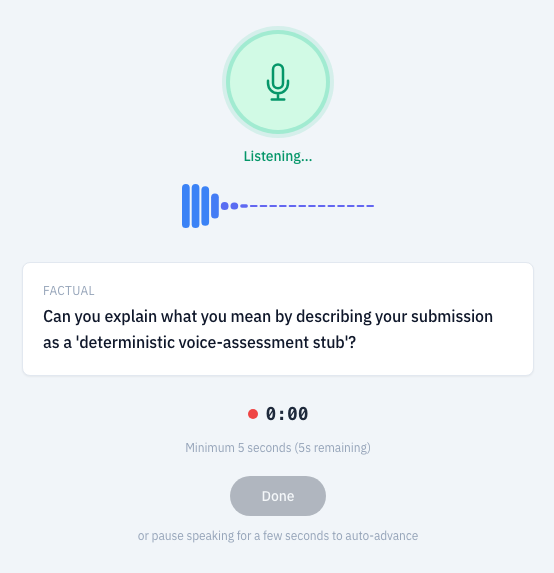
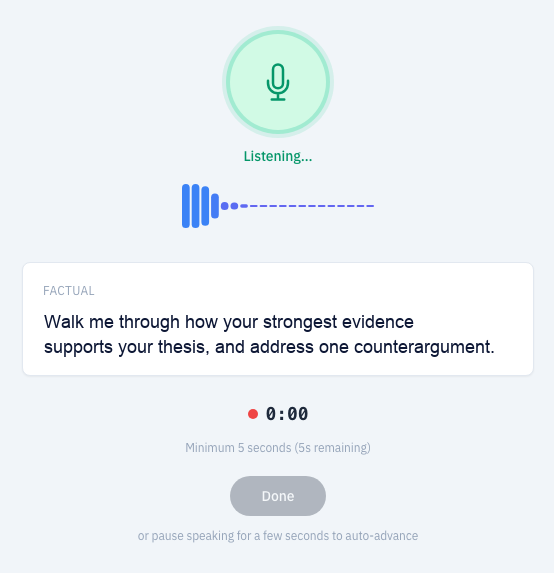
homepage update for defense product

Changed region(s): [[0.0614, 0.534, 0.8899, 0.623]]

diff --git a/index.html b/index.html
@@ -4,11 +4,11 @@
 <meta charset="utf-8" />
 <meta name="viewport" content="width=device-width,initial-scale=1" />
 <title>Retensiq</title>
-<meta name="description" content="Retensiq helps teachers verify understanding with short retention assessments grounded in each student submission." />
+<meta name="description" content="Retensiq is the Retention Validation platform with Validate, Defend, and District Insights for teacher confidence and district oversight." />
 <meta property="og:type" content="website" />
 <meta property="og:site_name" content="Retensiq" />
 <meta property="og:title" content="Retensiq" />
-<meta property="og:description" content="Retensiq helps teachers verify understanding with short retention assessments grounded in each student submission." />
+<meta property="og:description" content="Retensiq is the Retention Validation platform with Validate, Defend, and District Insights for teacher confidence and district oversight." />
 <meta property="og:url" content="https://retensiq.com/" />
 <meta property="og:image" content="https://retensiq.com/images/hero.png" />
 <meta property="og:image:secure_url" content="https://retensiq.com/images/hero.png" />
@@ -17,7 +17,7 @@
 <meta property="og:image:height" content="866" />
 <meta name="twitter:card" content="summary_large_image" />
 <meta name="twitter:title" content="Retensiq" />
-<meta name="twitter:description" content="Retensiq helps teachers verify understanding with short retention assessments grounded in each student submission." />
+<meta name="twitter:description" content="Retensiq is the Retention Validation platform with Validate, Defend, and District Insights for teacher confidence and district oversight." />
 <meta name="twitter:image" content="https://retensiq.com/images/hero.png" />
 <link rel="canonical" href="https://retensiq.com/" />
 <link rel="icon" type="image/png" sizes="32x32" href="/favicon-32x32.png?v=2" />
@@ -67,7 +67,9 @@ html { scroll-behavior: smooth; }
     </div>
     <div class="flex items-center gap-3 md:gap-5">
       <nav class="hidden md:flex items-center gap-5 text-sm text-white/70">
-        <a href="#how" class="hover:text-white">How it works</a>
+        <a href="#capabilities" class="hover:text-white">Platform</a>
+        <a href="#how" class="hover:text-white">How Validate works</a>
+        <a href="#district-insights" class="hover:text-white">For districts</a>
         <a href="#compliance" class="hover:text-white">Compliance + LMS</a>
         <a href="#faq" class="hover:text-white">FAQ</a>
       </nav>
@@ -83,7 +85,9 @@ html { scroll-behavior: smooth; }
   </div>
   <div id="mobile-menu" class="hidden border-t border-white/10 md:hidden">
     <nav class="max-w-6xl mx-auto px-4 py-4 flex flex-col gap-3 text-sm text-white/80">
-      <a href="#how" class="hover:text-white">How it works</a>
+      <a href="#capabilities" class="hover:text-white">Platform</a>
+      <a href="#how" class="hover:text-white">How Validate works</a>
+      <a href="#district-insights" class="hover:text-white">For districts</a>
       <a href="#compliance" class="hover:text-white">Compliance + LMS</a>
       <a href="#faq" class="hover:text-white">FAQ</a>
       <a href="https://app.retensiq.com/request-invite"
@@ -102,21 +106,34 @@ html { scroll-behavior: smooth; }
   <div class="relative max-w-6xl mx-auto px-4">
     <div class="grid gap-10 lg:grid-cols-2 lg:items-center">
       <div>
-
         <h1 class="mt-5 text-4xl md:text-5xl font-semibold leading-tight">
-Beyond AI detection. 
-          <span class="text-white/70">Measure actual student comprehension. </span>
+          Beyond AI detection.
+          <span class="text-white/70">Measure actual student comprehension.</span>
         </h1>
         <p class="mt-6 text-lg text-white/70 leading-relaxed">
-          Detection tools often return an AI-likelihood score instead of a constructive next step. Retensiq flips that model: students demonstrate understanding of their own submission, and you get follow-up evidence you can act on.
+          Students can now submit polished work they did not fully learn. Retensiq gives teachers a simple, practical way to check real understanding and decide what follow-up is actually needed.
         </p>
 
         <ul class="mt-6 space-y-3 text-sm text-white/75">
-          <li class="flex items-start gap-3"><span class="mt-1 h-2 w-2 rounded-full bg-emerald-400"></span>From "likely AI" guesswork to grounded student explanations</li>
-          <li class="flex items-start gap-3"><span class="mt-1 h-2 w-2 rounded-full bg-blue-400"></span>Text or voice response modes based on class context</li>
-          <li class="flex items-start gap-3"><span class="mt-1 h-2 w-2 rounded-full bg-violet-400"></span>Review-ready outputs that support faster teacher decisions</li>
+          <li class="flex items-start gap-3"><span class="mt-1 h-2 w-2 rounded-full bg-emerald-400"></span>Short, submission-grounded checks you can review fast</li>
+          <li class="flex items-start gap-3"><span class="mt-1 h-2 w-2 rounded-full bg-blue-400"></span>Text or voice response options that fit different learners</li>
+          <li class="flex items-start gap-3"><span class="mt-1 h-2 w-2 rounded-full bg-violet-400"></span>A single platform with Validate, Defend, and District Insights</li>
         </ul>
 
+        <div class="mt-8 flex flex-wrap items-center gap-3">
+          <a href="https://app.retensiq.com/request-invite"
+             class="inline-flex px-5 py-2.5 rounded-xl bg-white text-slate-950 font-semibold hover:bg-white/90">
+             Request invite
+          </a>
+          <a href="#how"
+             class="inline-flex px-5 py-2.5 rounded-xl border border-white/20 bg-white/5 text-white font-semibold hover:bg-white/10">
+             See how it works
+          </a>
+          <a href="#district-insights"
+             class="inline-flex px-5 py-2.5 rounded-xl border border-white/20 bg-white/5 text-white/85 font-semibold hover:bg-white/10">
+             For districts
+          </a>
+        </div>
       </div>
 
       <div class="rounded-3xl border border-white/10 bg-white/5 p-3 shadow-soft">
@@ -128,24 +145,63 @@ Beyond AI detection.
     </div>
   </div>
 </section>
+<!-- Three capabilities -->
+<section id="capabilities" class="py-16 border-t border-white/10">
+  <div class="max-w-6xl mx-auto px-4">
+    <div class="max-w-4xl">
+      <h2 class="text-3xl md:text-4xl font-semibold tracking-tight">One platform. Three products.</h2>
+      <p class="mt-4 text-white/70 text-lg leading-relaxed">
+        Start with Validate in the classroom, move into Defend when stronger proof is needed, and give leadership a shared view through District Insights.
+      </p>
+    </div>
+
+    <div class="mt-10 rounded-3xl border border-white/10 bg-white/5 p-4 md:p-6 shadow-soft">
+      <div class="grid gap-4 md:grid-cols-3">
+        <article class="rounded-2xl border border-emerald-300/30 bg-gradient-to-b from-emerald-500/20 to-transparent p-6">
+          <h3 class="text-2xl font-semibold">Validate</h3>
+          <p class="mt-3 text-sm text-white/75 leading-relaxed">
+            Quickly verify whether students can explain what they submitted.
+          </p>
+          <a href="#how" class="mt-5 inline-flex text-sm font-medium text-emerald-200 hover:text-emerald-100">See workflow →</a>
+        </article>
+
+        <article class="rounded-2xl border border-violet-300/30 bg-gradient-to-b from-violet-500/20 to-transparent p-6">
+          <h3 class="text-2xl font-semibold">Defend</h3>
+          <p class="mt-3 text-sm text-white/75 leading-relaxed">
+            Run a structured oral defense that tests how well students can explain and defend their own thinking.
+          </p>
+          <a href="#defend" class="mt-5 inline-flex text-sm font-medium text-violet-200 hover:text-violet-100">See Defend →</a>
+        </article>
+
+        <article class="rounded-2xl border border-blue-300/30 bg-gradient-to-b from-blue-500/20 to-transparent p-6">
+          <h3 class="text-2xl font-semibold">District Insights</h3>
+          <p class="mt-3 text-sm text-white/75 leading-relaxed">
+            Give schools and districts clear visibility into adoption, evidence, and outcomes.
+          </p>
+          <a href="#district-insights" class="mt-5 inline-flex text-sm font-medium text-blue-200 hover:text-blue-100">See Insights →</a>
+        </article>
+      </div>
+    </div>
+  </div>
+</section>
 <!-- How It Works (improved) -->
 <section id="how" class="py-24 border-t border-white/10">
   <div class="max-w-6xl mx-auto px-4">
     <div class="flex flex-col md:flex-row md:items-end md:justify-between gap-8">
       <div class="max-w-2xl">
-        <h2 class="text-3xl md:text-4xl font-semibold tracking-tight">How it works</h2>
+        <h2 class="text-3xl md:text-4xl font-semibold tracking-tight">How Validate works</h2>
         <p class="mt-4 text-white/70 text-lg leading-relaxed">
-          Move from student work to a review-ready follow-up in three steps. Every assessment is grounded in what the student actually submitted.
+          Teachers move from student work to clear evidence in three short steps, without adding a heavy process to class time.
         </p>
       </div>
 
     </div>
 
     <!-- Flow strip -->
-    <div class="mt-12 rounded-3xl border border-white/10 bg-white/5 p-6 md:p-8 shadow-soft">
+    <div class="mt-12 rounded-3xl border border-emerald-300/20 bg-emerald-500/5 p-6 md:p-8 shadow-soft">
       <div class="grid md:grid-cols-3 gap-6 items-stretch">
         <!-- Step 1 -->
-        <div class="rounded-3xl border border-white/10 bg-gradient-to-b from-blue-500/15 to-transparent p-6">
+        <div class="rounded-3xl border border-emerald-300/20 bg-gradient-to-b from-emerald-500/20 to-transparent p-6">
           <div class="flex items-center justify-between">
             <div class="text-xs text-white/60">Step 1</div>
             <span class="text-xs px-2 py-1 rounded-lg bg-white/10 border border-white/10 text-white/70">Teacher</span>
@@ -159,14 +215,14 @@ Beyond AI detection.
         </div>
 
         <!-- Step 2 -->
-        <div class="rounded-3xl border border-white/10 bg-gradient-to-b from-violet-500/15 to-transparent p-6">
+        <div class="rounded-3xl border border-emerald-300/20 bg-gradient-to-b from-emerald-500/15 to-transparent p-6">
           <div class="flex items-center justify-between">
             <div class="text-xs text-white/60">Step 2</div>
             <span class="text-xs px-2 py-1 rounded-lg bg-white/10 border border-white/10 text-white/70">Retensiq</span>
           </div>
           <div class="mt-2 text-xl font-semibold">Generate a short assessment</div>
           <p class="mt-3 text-white/70 text-sm leading-relaxed">
-            Retensiq drafts a mix of factual, vocabulary, and reflective prompts so responses require real understanding, then lets teachers deliver the assessment in the response mode that best fits the learner.
+            Retensiq generates focused prompts tied to that exact submission, then you pick text or voice based on what fits the learner best.
           </p>
 
           <div class="mt-5 rounded-2xl border border-white/10 bg-white/5 p-3">
@@ -190,21 +246,21 @@ Beyond AI detection.
                   <span class="font-medium text-white/85">Voice response flow</span>
                   <span class="rounded-full border border-white/15 bg-white/10 px-2 py-0.5 text-[11px] text-white/70">Richer signals</span>
                 </figcaption>
-                <img src="images/sa-voice-recording.png" alt="Voice-based student response flow" class="w-full object-cover" loading="lazy" />
+                <img src="images/sa-voice-recording.png?v=2" alt="Voice-based student response flow" class="w-full object-cover" loading="lazy" />
               </figure>
             </div>
           </div>
         </div>
 
         <!-- Step 3 -->
-        <div class="rounded-3xl border border-white/10 bg-gradient-to-b from-emerald-500/15 to-transparent p-6">
+        <div class="rounded-3xl border border-emerald-300/20 bg-gradient-to-b from-emerald-500/20 to-transparent p-6">
           <div class="flex items-center justify-between">
             <div class="text-xs text-white/60">Step 3</div>
             <span class="text-xs px-2 py-1 rounded-lg bg-white/10 border border-white/10 text-white/70">Student → Teacher</span>
           </div>
           <div class="mt-2 text-xl font-semibold">Student answers, you review</div>
           <p class="mt-3 text-white/70 text-sm leading-relaxed">
-            Students complete one short assessment at a time. You review answers and concise signals in a workflow designed for fast teacher judgment.
+            Students complete one short check at a time, and you get concise signals that help you make a fair classroom decision quickly.
           </p>
 
           <div class="mt-5 grid gap-3">
@@ -239,14 +295,122 @@ Beyond AI detection.
   </div>
 </section>
 
+<!-- Defend -->
+<section id="defend" class="py-24 border-t border-white/10">
+  <div class="max-w-6xl mx-auto px-4">
+    <div class="grid gap-8 lg:grid-cols-2 lg:items-center">
+      <div>
+        <h2 class="text-3xl md:text-4xl font-semibold tracking-tight">Retensiq Defense makes oral defense consistent, structured, and reviewable.</h2>
+        <p class="mt-4 text-white/70 text-lg leading-relaxed">
+          Oral defense already exists in classrooms. Retensiq turns it into a repeatable workflow by analyzing the submission first, then running a structured question sequence that tests thesis recall, reasoning, evidence use, and response to counterarguments.
+        </p>
+        <ul class="mt-6 space-y-3 text-sm text-white/75">
+          <li class="flex items-start gap-3"><span class="mt-1 h-2 w-2 rounded-full bg-violet-400"></span>Students answer by voice or text, with adaptive follow-up in real time</li>
+          <li class="flex items-start gap-3"><span class="mt-1 h-2 w-2 rounded-full bg-blue-400"></span>Sessions produce a Defense Score with a transparent dimension breakdown</li>
+          <li class="flex items-start gap-3"><span class="mt-1 h-2 w-2 rounded-full bg-emerald-400"></span>Teachers get a transcript and insight report tied to the original submission</li>
+          <li class="flex items-start gap-3"><span class="mt-1 h-2 w-2 rounded-full bg-violet-300"></span>Focuses on demonstrated understanding, not AI-use detection</li>
+        </ul>
+
+        <details class="mt-6 rounded-2xl border border-violet-300/25 bg-slate-900/40 p-4 group">
+          <summary class="cursor-pointer list-none font-semibold flex items-center justify-between text-white/90">
+            How Defense works
+            <span class="text-violet-200 group-open:rotate-45 transition">+</span>
+          </summary>
+          <div class="mt-4 space-y-4 text-sm text-white/75 leading-relaxed">
+            <p>
+              Retensiq Defense is modeled on the higher-ed thesis defense process: it starts from the student's actual submission, probes core claims, and then tests reasoning with targeted follow-up questions.
+            </p>
+            <ul class="space-y-2">
+              <li class="flex items-start gap-2"><span class="mt-1 h-2 w-2 rounded-full bg-violet-400/80"></span><span><strong class="text-white/90">Question sequence:</strong> thesis statement, argument logic, supporting evidence, and counterarguments</span></li>
+              <li class="flex items-start gap-2"><span class="mt-1 h-2 w-2 rounded-full bg-blue-400/80"></span><span><strong class="text-white/90">Dynamic adaptation:</strong> follow-ups change based on how clearly the student explains each response</span></li>
+              <li class="flex items-start gap-2"><span class="mt-1 h-2 w-2 rounded-full bg-emerald-400/80"></span><span><strong class="text-white/90">Defense Score output:</strong> transparent breakdowns across dimensions like thesis recall, argument logic, and evidence understanding</span></li>
+              <li class="flex items-start gap-2"><span class="mt-1 h-2 w-2 rounded-full bg-violet-300/80"></span><span><strong class="text-white/90">Teacher artifacts:</strong> full transcript plus an insight report for review, coaching, and documentation</span></li>
+            </ul>
+          </div>
+        </details>
+      </div>
+
+      <div class="rounded-3xl border border-violet-300/30 bg-violet-500/5 p-4 shadow-soft">
+        <div class="rounded-2xl border border-violet-300/20 bg-slate-900/40 p-4">
+          <p class="text-sm text-white/70 leading-relaxed">
+            Defense is an advanced layer in the same Retensiq workflow. Use Validate first, then move into a structured oral defense when you need higher-assurance evidence.
+          </p>
+        </div>
+        <img src="images/sa-voice-recording.png?v=2" alt="Defend follow-up with voice and structured prompts" class="mt-4 w-full rounded-2xl border border-white/10" loading="lazy" />
+      </div>
+    </div>
+  </div>
+</section>
+
+<!-- Audience segmentation -->
+<section id="audiences" class="py-24 border-t border-white/10">
+  <div class="max-w-6xl mx-auto px-4">
+    <div class="max-w-3xl">
+      <h2 class="text-3xl md:text-4xl font-semibold tracking-tight">Built for teachers and district teams</h2>
+      <p class="mt-4 text-white/70 text-lg leading-relaxed">
+        The classroom experience stays teacher-first, while district leaders get the visibility needed to support strong implementation.
+      </p>
+    </div>
+
+    <div class="mt-10 grid gap-6 md:grid-cols-2 items-stretch">
+      <article class="rounded-3xl border border-emerald-300/25 bg-emerald-500/5 p-6 shadow-soft">
+        <div class="text-xs text-white/60">For teachers</div>
+        <h3 class="mt-2 text-2xl font-semibold">Validate understanding faster</h3>
+        <ul class="mt-4 space-y-2 text-sm text-white/75">
+          <li class="flex items-start gap-2"><span class="mt-1 h-2 w-2 rounded-full bg-emerald-400/80"></span>Spend less time guessing and more time teaching</li>
+          <li class="flex items-start gap-2"><span class="mt-1 h-2 w-2 rounded-full bg-blue-400/80"></span>Review concise evidence tied directly to student work</li>
+          <li class="flex items-start gap-2"><span class="mt-1 h-2 w-2 rounded-full bg-violet-400/80"></span>Escalate to Defend for a structured oral defense when stronger proof is needed</li>
+        </ul>
+      </article>
+
+      <article class="rounded-3xl border border-blue-300/25 bg-blue-500/5 p-6 shadow-soft">
+        <div class="text-xs text-white/60">For districts and schools</div>
+        <h3 class="mt-2 text-2xl font-semibold">Deploy with policy-aligned confidence</h3>
+        <ul class="mt-4 space-y-2 text-sm text-white/75">
+          <li class="flex items-start gap-2"><span class="mt-1 h-2 w-2 rounded-full bg-emerald-400/80"></span>Get consistent visibility across schools and classrooms</li>
+          <li class="flex items-start gap-2"><span class="mt-1 h-2 w-2 rounded-full bg-blue-400/80"></span>Roll out with clear expectations for policy and practice</li>
+          <li class="flex items-start gap-2"><span class="mt-1 h-2 w-2 rounded-full bg-violet-400/80"></span>Support procurement and governance with auditable records</li>
+        </ul>
+      </article>
+    </div>
+  </div>
+</section>
+
+<!-- District insights -->
+<section id="district-insights" class="py-24 border-t border-white/10">
+  <div class="max-w-6xl mx-auto px-4">
+    <div class="max-w-3xl">
+      <h2 class="text-3xl md:text-4xl font-semibold tracking-tight">District Insights keeps leadership in the loop</h2>
+      <p class="mt-4 text-white/70 text-lg leading-relaxed">
+        District teams can see where implementation is working, where support is needed, and how classroom evidence is trending over time.
+      </p>
+    </div>
+
+    <div class="mt-10 grid gap-6 md:grid-cols-2 lg:grid-cols-3 items-stretch">
+      <article class="rounded-3xl border border-blue-300/25 bg-blue-500/5 p-6 shadow-soft">
+        <h3 class="text-lg font-semibold">Implementation oversight</h3>
+        <p class="mt-3 text-sm text-white/70 leading-relaxed">Track adoption and consistency across schools, courses, and teams.</p>
+      </article>
+      <article class="rounded-3xl border border-blue-300/25 bg-blue-500/5 p-6 shadow-soft">
+        <h3 class="text-lg font-semibold">Auditability and governance</h3>
+        <p class="mt-3 text-sm text-white/70 leading-relaxed">Support role-based visibility, evidence traceability, and policy-aligned review workflows.</p>
+      </article>
+      <article class="rounded-3xl border border-blue-300/25 bg-blue-500/5 p-6 shadow-soft">
+        <h3 class="text-lg font-semibold">Data export readiness</h3>
+        <p class="mt-3 text-sm text-white/70 leading-relaxed">Prepare subject-request and reporting outputs for district operations and procurement review.</p>
+      </article>
+    </div>
+  </div>
+</section>
+
 <!-- Compliance + Integration -->
 <section id="compliance" class="py-24 border-t border-white/10">
   <div class="max-w-6xl mx-auto px-4">
     <div class="max-w-3xl">
       <h2 class="text-3xl md:text-4xl font-semibold tracking-tight">Built for school policy and classroom realities</h2>
       <p class="mt-4 text-white/70 text-lg leading-relaxed">
-        Retensiq is designed for FERPA-aware workflows, diverse learner needs, and practical LMS adoption.
-        Districts can align implementation with IT requirements, including audit trail expectations and data retention policies.
+        Retensiq fits how schools actually operate: FERPA-aware workflows, support for diverse learners, and practical LMS deployment.
+        Districts can still align with IT requirements such as audit trail expectations and data retention policies.
       </p>
     </div>
 
@@ -301,11 +465,11 @@ Beyond AI detection.
 
       <details class="bg-white/5 border border-white/10 rounded-3xl p-6 group" open>
         <summary class="cursor-pointer font-semibold flex justify-between items-center">
-          Does Retensiq prove AI use?
+          Is Retensiq an AI detector?
           <span class="group-open:rotate-45 transition">+</span>
         </summary>
         <p class="mt-4 text-white/70 text-sm leading-relaxed">
-          No. Retensiq is not an AI detector. It gives teachers a fast follow-up workflow to evaluate how well students understand what they submitted.
+          No. Retensiq is built for learning validation, not AI detection scores. Teachers start with Validate, use Defend for a structured oral defense when they need deeper proof, and district teams use District Insights for oversight.
         </p>
       </details>
 
@@ -315,7 +479,7 @@ Beyond AI detection.
           <span class="group-open:rotate-45 transition">+</span>
         </summary>
         <p class="mt-4 text-white/70 text-sm leading-relaxed">
-          Retensiq focuses on comprehension and retention, using submission-grounded questions plus lightweight timing and fluency signals.
+          Retensiq focuses on whether a student retained and can explain what they submitted, using submission-grounded prompts plus lightweight timing and fluency signals.
         </p>
       </details>
 
@@ -333,7 +497,7 @@ Beyond AI detection.
 
       <details class="bg-white/5 border border-white/10 rounded-3xl p-6 group">
         <summary class="cursor-pointer font-semibold flex justify-between items-center">
-          How long does it take?
+          How long does Validate usually take?
           <span class="group-open:rotate-45 transition">+</span>
         </summary>
         <p class="mt-4 text-white/70 text-sm leading-relaxed">
@@ -347,7 +511,7 @@ Beyond AI detection.
           <span class="group-open:rotate-45 transition">+</span>
         </summary>
         <p class="mt-4 text-white/70 text-sm leading-relaxed">
-          AI detection can be noisy and hard to act on. Retensiq centers classroom decisions on demonstrated understanding, with evidence tied to the student's own work.
+          AI detection can be noisy and hard to act on. Retensiq centers classroom and district decisions on demonstrated understanding, with evidence tied to the student's own work.
         </p>
       </details>
 
